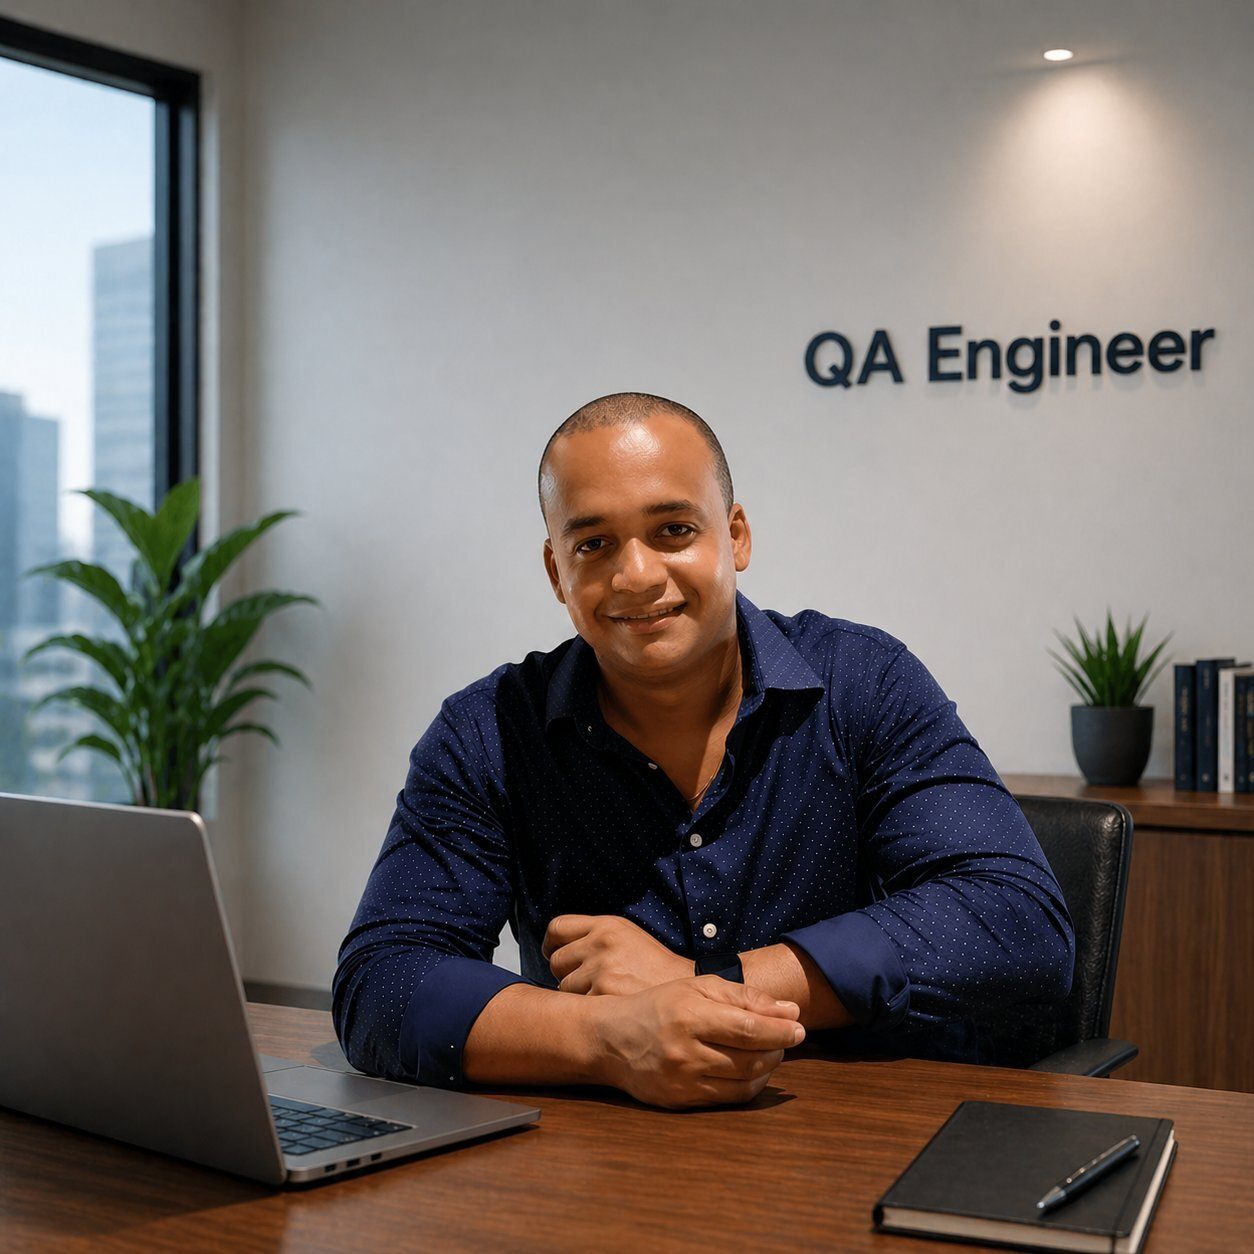
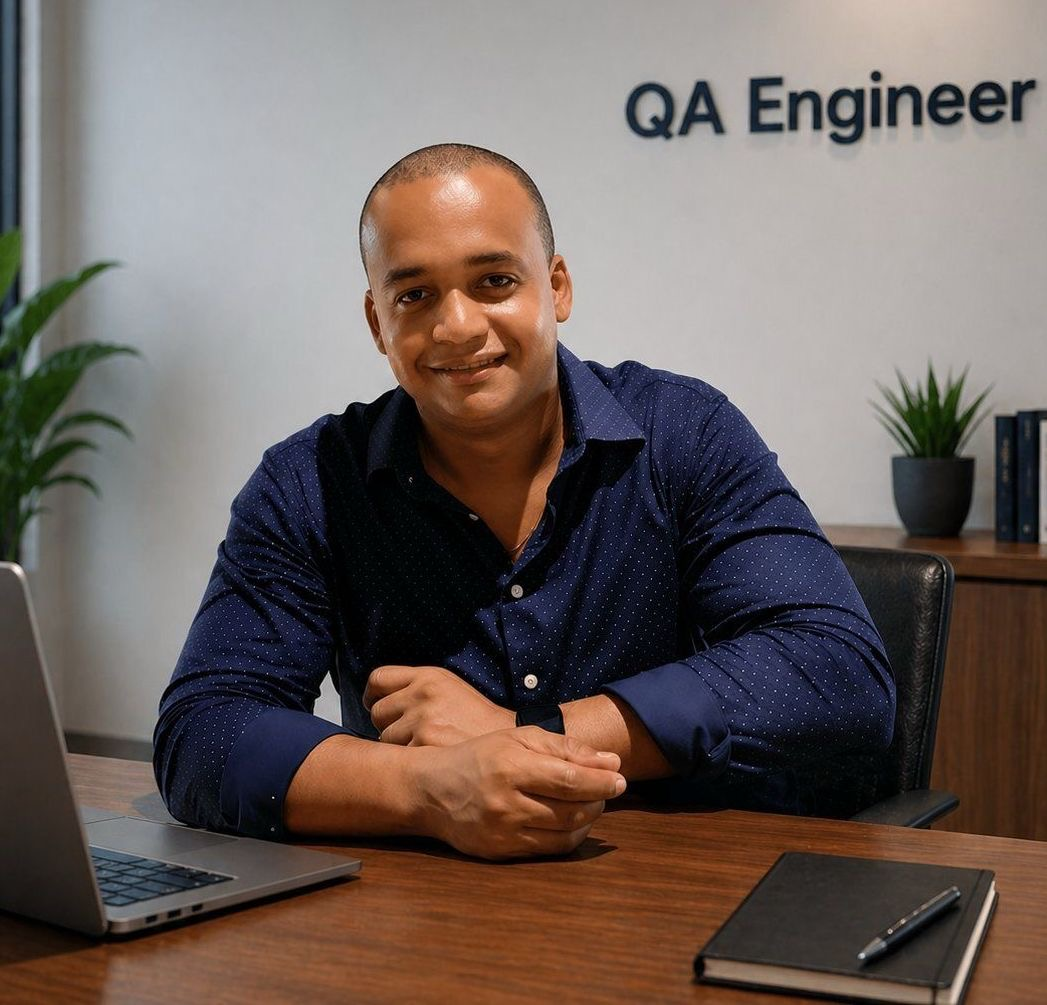
Modificación en imágenes de staff y mejoras de contenido
- Actualizar imagen de Delia María a delia-maria.jpeg
- Actualizar imagen de Starling De La Cruz a starling-delacruz.jpg
- Ajustar encuadre (object-position) de Delia, Erick y Starling
- Roles del staff traducibles via data-i18n (ES/EN)
- Bio de Jorge Almánzar actualizada
- Bios de todo el staff traducibles al inglés via i18n

diff --git a/js/i18n.js b/js/i18n.js
@@ -89,14 +89,17 @@ const translations = {
         'events.e4.desc':  'Descubre cómo Cypress transforma el testing frontend con una experiencia rápida e intuitiva.',
 
         // Staff page
-        'staff.header': 'Nuestro Staff',
-        'staff.sub':    'Co-fundadores y colaboradores',
+        'staff.header':        'Nuestro Staff',
+        'staff.sub':           'Co-fundadores y colaboradores',
+        'staff.role.founder':      'Fundador / Organizador',
+        'staff.role.organizer':    'Organizador',
+        'staff.role.organizer-f':  'Organizadora',
         'staff.bio.alexander': 'Ingeniero de Software especializado en Calidad de Software. Senior SDET con más de 10 años de experiencia en automatización de pruebas, logrando reducir los tiempos de testing en 50% y la ejecución manual en 85%. Diseña e implementa soluciones con modelos de IA de las familias Claude, GPT, Gemini, Qwen y Kimi para optimizar todo el SDLC. Fundador y líder voluntario de QA Dominicana, apasionado por mentorear equipos y construir la próxima generación de ingeniería de software impulsada por IA.',
         'staff.bio.ever':      'Ingeniero en sistemas y líder de capítulo de SQA en Banco BHD, con más de 10 años de experiencia en aseguramiento de calidad dentro del sector tecnológico y bancario. Speaker tecnológico, investigador y cofundador de QA Dominicana. Actualmente cursa una maestría en inteligencia artificial, integrando su experiencia en SQA con una visión innovadora sobre el futuro del testing.',
         'staff.bio.erick':     'Erick Guerrero es fundador de Smart Testing, empresa especializada en aseguramiento de calidad de software, automatización de pruebas y soluciones digitales. Ha liderado equipos de QA en proyectos para sectores como banca, salud, gobierno y seguros, impulsando la calidad del software y la transformación digital. A través de su trabajo, ha contribuido al crecimiento y profesionalización de la comunidad de QA en República Dominicana, apoyando la formación y desarrollo de nuevos talentos en la industria tecnológica.',
         'staff.bio.madelaine': 'Profesional de Quality Assurance desde 2023, especializada en entornos financieros y altamente regulados. Enfocada en pruebas funcionales, validación de requerimientos y mejora continua, con visión analítica orientada a la trazabilidad y mitigación de riesgos.',
         'staff.bio.delia':     'Coordina y da vida a Testing4All, gestionando desde la logística y los patrocinadores hasta la experiencia de los asistentes. Su enfoque está en construir eventos que fortalezcan la comunidad y generen conexiones valiosas entre profesionales de tecnología.',
-        'staff.bio.jorge':     'Ingeniero de Software especializado en Aseguramiento de Calidad, certificado internacionalmente, con más de 4 años de experiencia. Especializado en automatización de pruebas, CI/CD y metodologías ágiles. Orientado a la mejora continua y la innovación estratégica para generar valor sostenible.',
+        'staff.bio.jorge':     'Ingeniero de Software especializado en Aseguramiento de Calidad, certificado internacionalmente, con más de 4 años de experiencia enfocado en la automatización de pruebas, CI/CD y metodologías ágiles. Orientado a la mejora continua y la innovación estratégica para generar valor sostenible.',
         'staff.bio.jose':      'Senior Software QA Manager en Soluciones GBH, con más de 17 años de experiencia en aseguramiento de la calidad. Especialista en automatización con TestCafe, Selenium y Cypress. Ha liderado la implementación de buenas prácticas de QA en múltiples proyectos de alta complejidad.',
         'staff.bio.starling':  'QA Engineer con experiencia en automatización y testing manual, aplicando principios ISTQB en entornos ágiles con stack en Playwright, Cypress, Selenium, Postman y Mable, integrado en CI/CD con GitHub Actions y Azure DevOps. Incorpora modelos de IA —Claude, GPT y Gemini— para optimizar el ciclo de testing: generación de casos de prueba, análisis de logs e identificación de patrones de fallos, impulsando soluciones de calidad más inteligentes y eficientes.',
 
@@ -209,8 +212,11 @@ const translations = {
         'events.e4.desc':  'Discover how Cypress transforms frontend testing with a fast, intuitive experience.',
 
         // Staff page
-        'staff.header': 'Our Staff',
-        'staff.sub':    'Co-founders and collaborators',
+        'staff.header':        'Our Staff',
+        'staff.sub':           'Co-founders and collaborators',
+        'staff.role.founder':      'Founder / Organizer',
+        'staff.role.organizer':    'Organizer',
+        'staff.role.organizer-f':  'Organizer',
         'staff.bio.alexander': 'Software Engineer specialized in Software Quality. Senior SDET with over 10 years of experience in test automation, reducing testing times by 50% and manual execution by 85%. Designs and implements solutions using AI models from the Claude, GPT, Gemini, Qwen and Kimi families to optimize the entire SDLC. Founder and volunteer leader of QA Dominicana, passionate about mentoring teams and building the next generation of AI-powered software engineering.',
         'staff.bio.ever':      'Systems engineer and SQA chapter leader at Banco BHD, with over 10 years of experience in quality assurance within the technology and banking sector. Tech speaker, researcher and co-founder of QA Dominicana. Currently pursuing a master\'s degree in artificial intelligence, integrating his SQA expertise with an innovative vision of the future of testing.',
         'staff.bio.erick':     'Erick Guerrero is the founder of Smart Testing, a company specializing in software quality assurance, test automation and digital solutions. He has led QA teams on projects for sectors such as banking, healthcare, government and insurance, driving software quality and digital transformation. Through his work, he has contributed to the growth and professionalization of the QA community in the Dominican Republic, supporting the training and development of new talent in the technology industry.',

diff --git a/staff.html b/staff.html
@@ -90,7 +90,7 @@
                     <article class="staff-card">
                         <div class="sc-photo">
                             <img src="assets/profiles/alexander-vegazo.jpg" alt="Alexander Vegazo Rodríguez" loading="lazy">
-                            <span class="sc-role">Fundador / Organizador</span>
+                            <span class="sc-role" data-i18n="staff.role.founder">Fundador / Organizador</span>
                         </div>
                         <div class="sc-body">
                             <h3 class="sc-name">Alexander Vegazo Rodríguez</h3>
@@ -101,7 +101,7 @@
                     <article class="staff-card">
                         <div class="sc-photo">
                             <img src="assets/profiles/ever-curiel.jpg" alt="Ever Curiel" loading="lazy">
-                            <span class="sc-role">Fundador / Organizador</span>
+                            <span class="sc-role" data-i18n="staff.role.founder">Fundador / Organizador</span>
                         </div>
                         <div class="sc-body">
                             <h3 class="sc-name">Ever Curiel</h3>
@@ -111,8 +111,8 @@
 
                     <article class="staff-card">
                         <div class="sc-photo">
-                            <img src="assets/profiles/Erick Guerrero.png" alt="Erick Guerrero" loading="lazy">
-                            <span class="sc-role">Organizador</span>
+                            <img src="assets/profiles/Erick Guerrero.png" alt="Erick Guerrero" loading="lazy" class="sc-photo-adjust-erick">
+                            <span class="sc-role" data-i18n="staff.role.organizer">Organizador</span>
                         </div>
                         <div class="sc-body">
                             <h3 class="sc-name">Erick Guerrero</h3>
@@ -123,7 +123,7 @@
                     <article class="staff-card">
                         <div class="sc-photo">
                             <img src="assets/profiles/Madelaine.jpeg" alt="Madelaine Pérez" loading="lazy">
-                            <span class="sc-role">Organizadora</span>
+                            <span class="sc-role" data-i18n="staff.role.organizer-f">Organizadora</span>
                         </div>
                         <div class="sc-body">
                             <h3 class="sc-name">Madelaine Pérez</h3>
@@ -133,8 +133,8 @@
 
                     <article class="staff-card">
                         <div class="sc-photo">
-                            <img src="assets/profiles/delia-maria.jpg" alt="Delia María" loading="lazy">
-                            <span class="sc-role">Organizadora</span>
+                            <img src="assets/profiles/delia-maria.jpeg" alt="Delia María" loading="lazy" class="sc-photo-adjust">
+                            <span class="sc-role" data-i18n="staff.role.organizer-f">Organizadora</span>
                         </div>
                         <div class="sc-body">
                             <h3 class="sc-name">Delia María</h3>
@@ -145,18 +145,18 @@
                     <article class="staff-card">
                         <div class="sc-photo">
                             <img src="assets/profiles/jorge-almanzar.jpg" alt="Jorge Luis Almánzar" loading="lazy">
-                            <span class="sc-role">Organizador</span>
+                            <span class="sc-role" data-i18n="staff.role.organizer">Organizador</span>
                         </div>
                         <div class="sc-body">
                             <h3 class="sc-name">Jorge Luis Almánzar</h3>
-                            <p class="sc-bio" data-i18n="staff.bio.jorge">Ingeniero de Software especializado en Aseguramiento de Calidad, certificado internacionalmente, con más de 4 años de experiencia. Especializado en automatización de pruebas, CI/CD y metodologías ágiles. Orientado a la mejora continua y la innovación estratégica para generar valor sostenible.</p>
+                            <p class="sc-bio" data-i18n="staff.bio.jorge">Ingeniero de Software especializado en Aseguramiento de Calidad, certificado internacionalmente, con más de 4 años de experiencia enfocado en la automatización de pruebas, CI/CD y metodologías ágiles. Orientado a la mejora continua y la innovación estratégica para generar valor sostenible.</p>
                         </div>
                     </article>
 
                     <article class="staff-card">
                         <div class="sc-photo">
                             <img src="assets/profiles/jose-rodriguez.jpg" alt="José Rodríguez" loading="lazy">
-                            <span class="sc-role">Organizador</span>
+                            <span class="sc-role" data-i18n="staff.role.organizer">Organizador</span>
                         </div>
                         <div class="sc-body">
                             <h3 class="sc-name">José Rodríguez</h3>
@@ -166,8 +166,8 @@
 
                     <article class="staff-card">
                         <div class="sc-photo">
-                            <img src="assets/profiles/starling-delacruz.jpg" alt="Starling De La Cruz" loading="lazy">
-                            <span class="sc-role">Organizador</span>
+                            <img src="assets/profiles/starling-delacruz.jpg" alt="Starling De La Cruz" loading="lazy" class="sc-photo-adjust-starling">
+                            <span class="sc-role" data-i18n="staff.role.organizer">Organizador</span>
                         </div>
                         <div class="sc-body">
                             <h3 class="sc-name">Starling De La Cruz</h3>

diff --git a/index.html b/index.html
@@ -526,7 +526,7 @@
                 <small>Organizadora</small>
             </div>
             <div class="hp-staff-mini">
-                <img src="assets/profiles/delia-maria.jpg" alt="Delia María" loading="lazy">
+                <img src="assets/profiles/delia-maria.jpeg" alt="Delia María" loading="lazy">
                 <span>Delia María</span>
                 <small>Organizadora</small>
             </div>

diff --git a/css/style.css b/css/style.css
@@ -1898,6 +1898,10 @@ section.events div > h2 {
     transform: scale(1.06);
 }
 
+.sc-photo-adjust         { object-position: center 38%; }
+.sc-photo-adjust-erick   { object-position: center 22%; }
+.sc-photo-adjust-starling { object-position: center 28%; }
+
 .sc-role {
     display: flex;
     align-items: center;
